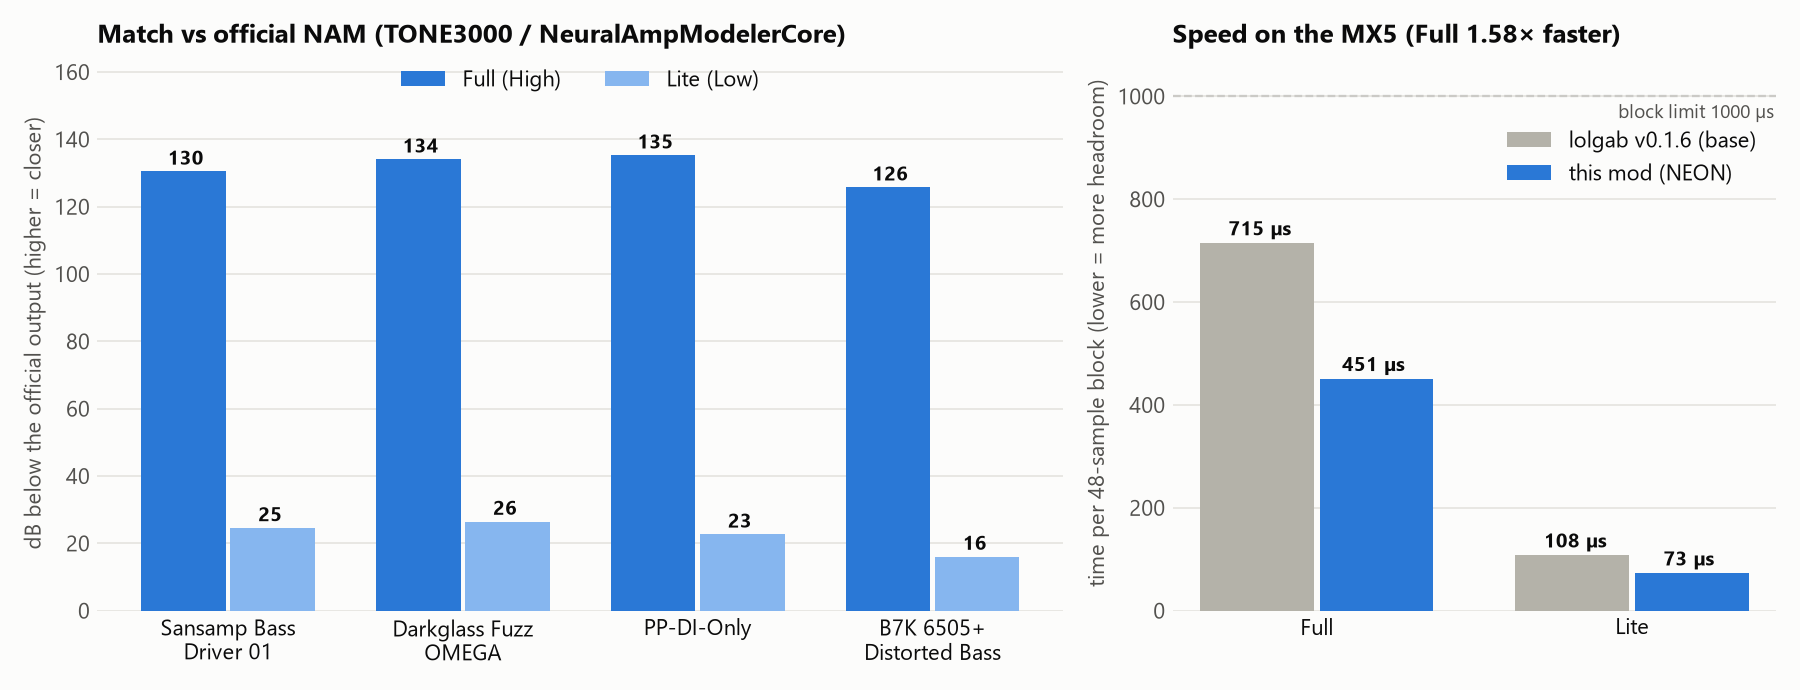
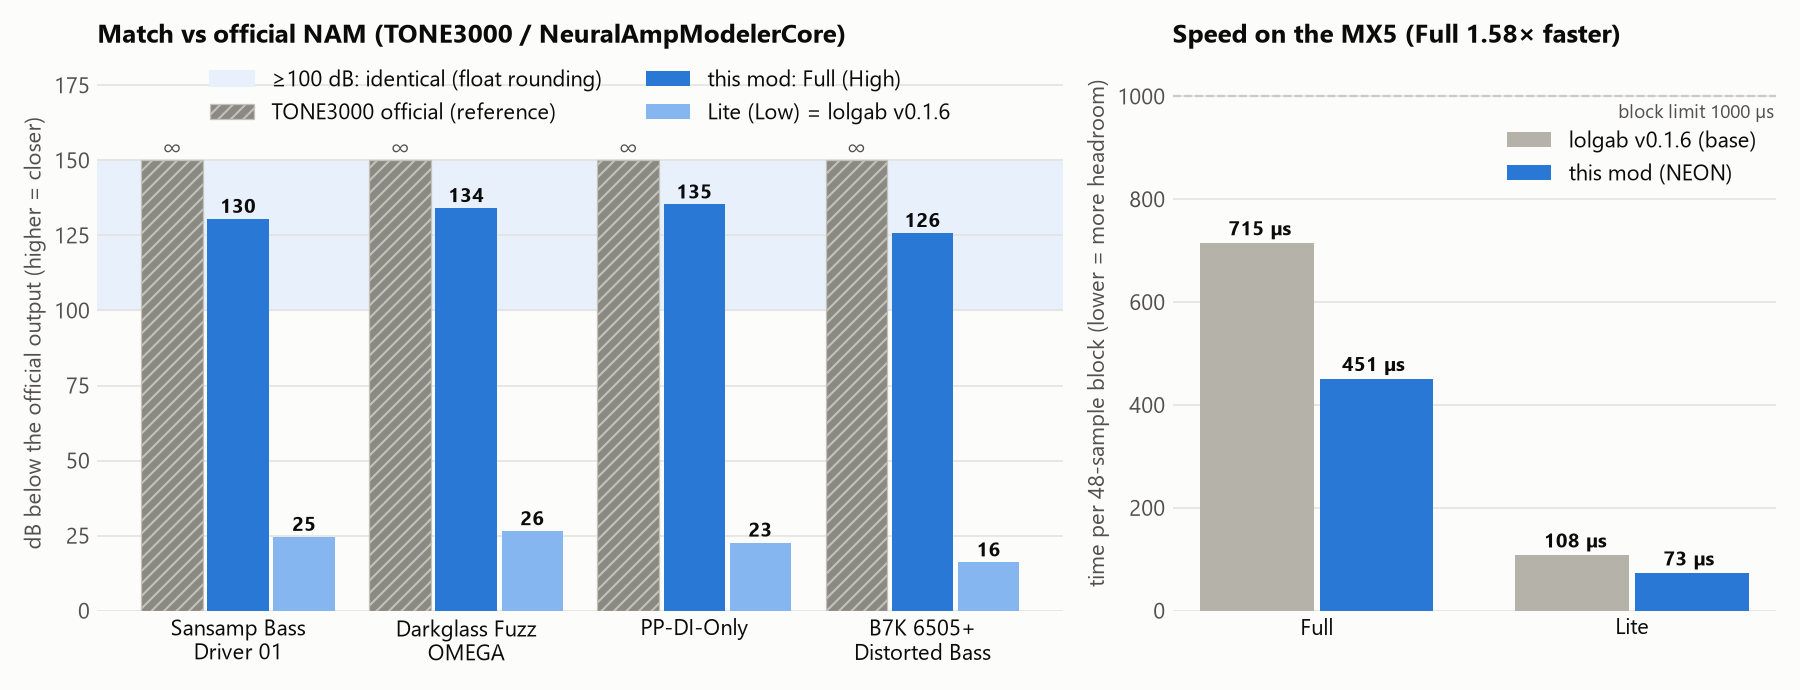
README chart: TONE3000 official as reference bar next to Full and Lite

Changed region(s): [[0.0311, 0.0913, 0.56, 0.9739], [0.0311, 0.0913, 0.0622, 0.1217]]

diff --git a/comparacao/grafico.py b/comparacao/grafico.py
@@ -6,15 +6,21 @@ fig,(a,b)=plt.subplots(1,2,figsize=(12,4.6),dpi=150,gridspec_kw={"width_ratios":
 fig.patch.set_facecolor(S)
 m=["Sansamp Bass\nDriver 01","Darkglass Fuzz\nOMEGA","PP-DI-Only","B7K 6505+\nDistorted Bass"]
 full=[130.5,134.1,135.3,125.8]; lite=[24.6,26.5,22.7,16.1]
-x=np.arange(4); w=0.36
+x=np.arange(4); w=0.27
 for ax in (a,b):
     ax.set_facecolor(S); ax.grid(axis="y",color=G,zorder=0); ax.tick_params(length=0,colors=I2)
     [s.set_visible(False) for s in ax.spines.values()]
-a.bar(x-w/2-0.01,full,w,color=F,zorder=2,label="Full (High)"); a.bar(x+w/2+0.01,lite,w,color=L,zorder=2,label="Lite (Low)")
+REF=150
+a.bar(x-w-0.02,[REF]*4,w,color="#8a8984",hatch="////",edgecolor="#c3c2b7",linewidth=0.6,zorder=2,label="TONE3000 official (reference)")
+a.bar(x,full,w,color=F,zorder=2,label="this mod: Full (High)")
+a.bar(x+w+0.02,lite,w,color=L,zorder=2,label="Lite (Low) = lolgab v0.1.6")
 for i in range(4):
-    a.text(x[i]-w/2,full[i]+2,f"{full[i]:.0f}",ha="center",color=I,fontsize=9.5,fontweight="bold")
-    a.text(x[i]+w/2,lite[i]+2,f"{lite[i]:.0f}",ha="center",color=I,fontsize=9.5,fontweight="bold")
-a.set_xticks(x); a.set_xticklabels(m,color=I); a.set_ylim(0,165)
+    a.text(x[i]-w-0.02,REF+2,"∞",ha="center",color=I2,fontsize=10)
+    a.text(x[i],full[i]+2,f"{full[i]:.0f}",ha="center",color=I,fontsize=9.5,fontweight="bold")
+    a.text(x[i]+w+0.02,lite[i]+2,f"{lite[i]:.0f}",ha="center",color=I,fontsize=9.5,fontweight="bold")
+a.axhspan(100,REF,color="#e8f0fb",zorder=0,label="≥100 dB: identical (float rounding)")
+w=0.36
+a.set_xticks(x); a.set_xticklabels(m,color=I); a.set_ylim(0,185)
 a.set_ylabel("dB below the official output (higher = closer)",color=I2)
 a.set_title("Match vs official NAM (TONE3000 / NeuralAmpModelerCore)",loc="left",color=I,fontweight="bold")
 a.legend(frameon=False,loc="upper center",ncol=2,labelcolor=I,bbox_to_anchor=(0.5,1.01))
